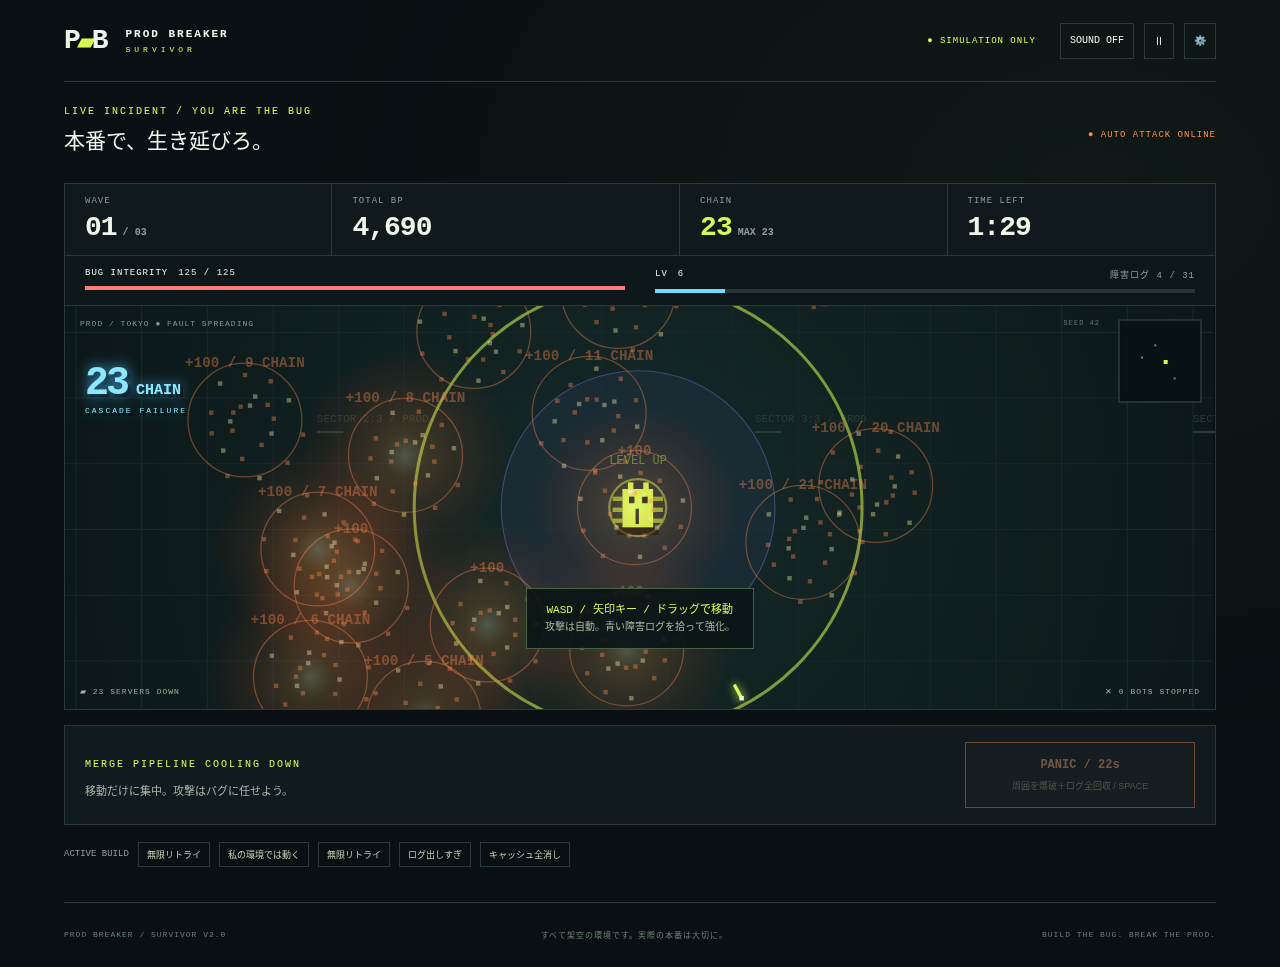
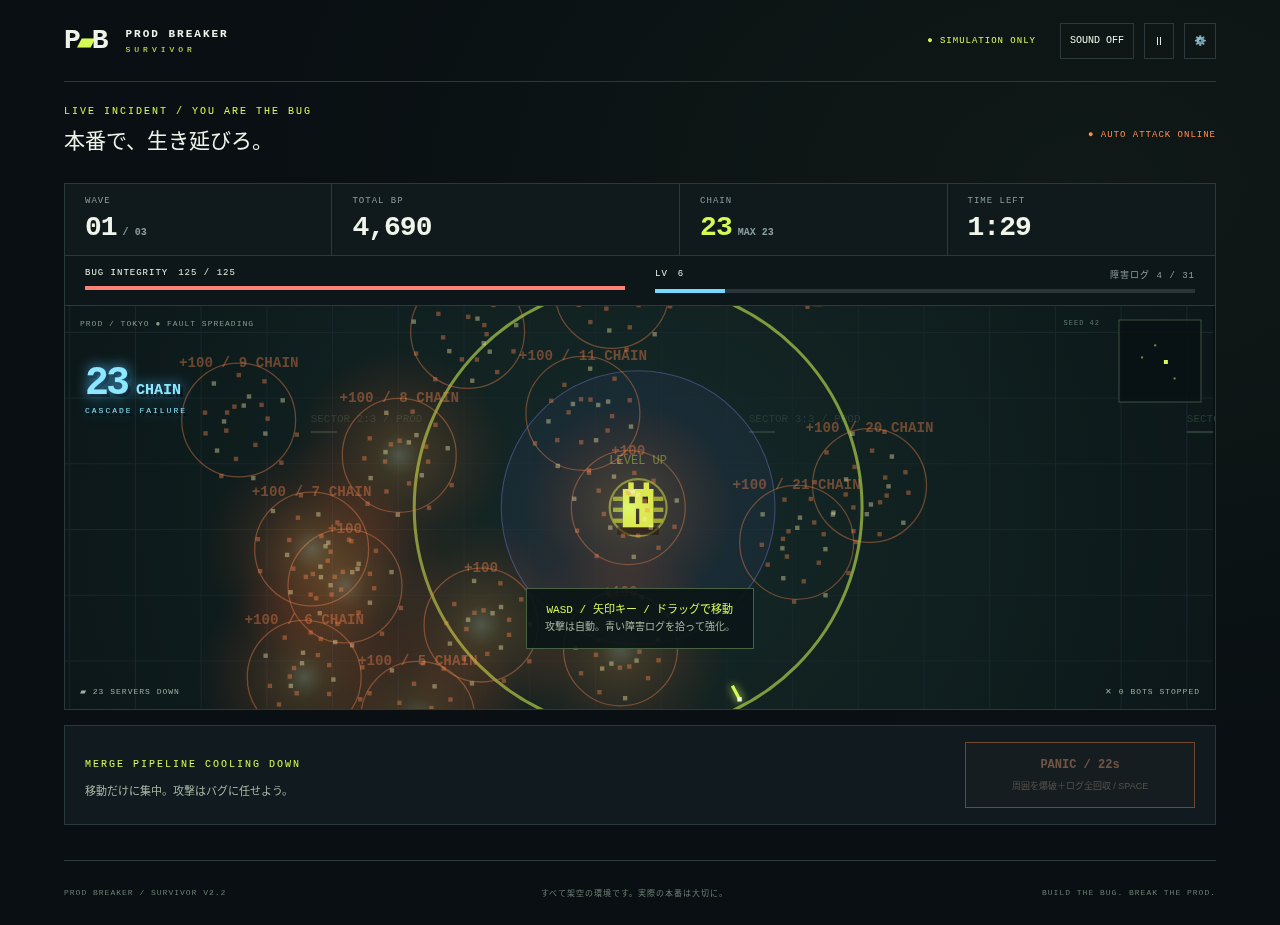
Remove result sharing and prevent mobile long-press selection

diff --git a/src/components/Game.tsx b/src/components/Game.tsx
@@ -42,7 +42,6 @@ export default function Game() {
       reduced: false,
     }),
     [high, setHigh] = useState(0),
-    [notice, setNotice] = useState(""),
     [evolutionNotice, setEvolutionNotice] = useState("");
   useEffect(() => {
     if (!evolutionNotice) return;
@@ -270,7 +269,6 @@ export default function Game() {
         : Math.floor(Math.random() * 0xffffffff);
     world.current = createWorld(seed, duration);
     setSnapshot(world.current);
-    setNotice("");
     setEvolutionNotice("");
     setModal(null);
     setScreen("run");
@@ -303,57 +301,19 @@ export default function Game() {
     remaining = Math.ceil(w.duration - w.time),
     minutes = Math.floor(remaining / 60),
     seconds = String(remaining % 60).padStart(2, "0");
-  async function exportImage(share = false) {
-    try {
-      const c = document.createElement("canvas");
-      c.width = 1080;
-      c.height = 1080;
-      const ctx = c.getContext("2d");
-      if (!ctx) throw new Error("canvas");
-      ctx.fillStyle = "#0a1013";
-      ctx.fillRect(0, 0, 1080, 1080);
-      ctx.fillStyle = "#d4fa53";
-      ctx.font = "bold 80px monospace";
-      ctx.fillText("PROD BREAKER", 65, 140);
-      ctx.font = "26px monospace";
-      ctx.fillText("SURVIVOR / BUILD THE BUG.", 65, 195);
-      ctx.fillStyle = "#fff";
-      ctx.font = "bold 110px monospace";
-      ctx.fillText(`${w.score.toLocaleString()} BP`, 65, 360);
-      ctx.font = "34px sans-serif";
-      [
-        incident.title,
-        `${w.time.toFixed(1)}秒 / LV ${w.level} / ${w.destroyed}サーバー破壊`,
-        `MAX CHAIN ${w.maxCombo} / WAVE ${wave(w)}`,
-        `原因：${incident.cause}`,
-        "再発防止策：金曜日を廃止する。",
-        "架空のジョーク障害報告書です。",
-      ].forEach((s, i) => ctx.fillText(s, 65, 475 + i * 75));
-      const blob = await new Promise<Blob | null>((resolve) =>
-        c.toBlob(resolve),
-      );
-      if (!blob) throw new Error("blob");
-      const file = new File([blob], "prod-breaker-survivor.png", {
-        type: "image/png",
-      });
-      if (share && navigator.canShare?.({ files: [file] })) {
-        await navigator.share({ files: [file], title: "PROD BREAKER" });
-        return;
-      }
-      const link = document.createElement("a");
-      link.href = URL.createObjectURL(blob);
-      link.download = file.name;
-      link.click();
-      setTimeout(() => URL.revokeObjectURL(link.href), 1000);
-      setNotice("リザルト画像を保存しました。");
-    } catch (e) {
-      if (!(e instanceof DOMException && e.name === "AbortError"))
-        setNotice("画像を保存できませんでした。別のブラウザでお試しください。");
-    }
-  }
   return (
     <MotionConfig reducedMotion={settings.reduced ? "always" : "user"}>
-      <main className={`app survivor ${settings.reduced ? "reduced" : ""}`}>
+      <main
+        className={`app survivor ${settings.reduced ? "reduced" : ""}`}
+        onContextMenu={(event) => {
+          const target = event.target as HTMLElement;
+          if (
+            (screen === "run" || target.closest(".site-header")) &&
+            !target.closest("input, textarea")
+          )
+            event.preventDefault();
+        }}
+      >
         <header className="site-header">
           <button
             className="brand"
@@ -413,7 +373,7 @@ export default function Game() {
               </span>
             </h1>
             <div className="edition">
-              SURVIVOR EDITION <span>↗ V2.1</span>
+              SURVIVOR EDITION <span>↗ V2.2</span>
             </div>
             <p className="tagline">BUILD THE BUG. BREAK THE PROD.</p>
             <p className="intro">
@@ -637,23 +597,6 @@ export default function Game() {
                 <small>周囲を爆破＋ログ全回収 / SPACE</small>
               </button>
             </div>
-            <div className="inventory">
-              {w.evolutions.map((name) => (
-                <span className="build-chip evolution" key={name}>
-                  ✦ {name}
-                </span>
-              ))}
-              <span>ACTIVE BUILD</span>
-              {w.build.length ? (
-                w.build.map((id, i) => (
-                  <span className="build-chip" key={i}>
-                    {upgrades.find((u) => u.id === id)!.name}
-                  </span>
-                ))
-              ) : (
-                <span>まだ素のバグです。青いログを回収しよう。</span>
-              )}
-            </div>
             {w.phase === "upgrade" && !modal && (
               <div className="modal-backdrop level-backdrop">
                 <section
@@ -755,18 +698,11 @@ export default function Game() {
             <button className="primary" onClick={start}>
               もう一度プレイ ↻
             </button>
-            <div className="result-actions">
-              <button onClick={() => void exportImage()}>画像保存 ↓</button>
-              <button onClick={() => void exportImage(true)}>共有 ↗</button>
-            </div>
             <p className="muted">SURVIVOR BEST {high.toLocaleString()} BP</p>
-            <p role="status" className="muted">
-              {notice}
-            </p>
           </section>
         )}
         <footer>
-          <span>PROD BREAKER / SURVIVOR V2.1</span>
+          <span>PROD BREAKER / SURVIVOR V2.2</span>
           <span>すべて架空の環境です。実際の本番は大切に。</span>
           <span>BUILD THE BUG. BREAK THE PROD.</span>
         </footer>

diff --git a/tests/e2e/game.spec.ts b/tests/e2e/game.spec.ts
@@ -122,11 +122,10 @@ test("real-time movement, auto fire, upgrades, panic, pause, saved settings and 
       Number(JSON.parse(localStorage.getItem("pb-survivor-high-90") || "0")),
     ),
   ).toBeGreaterThan(0);
-  const download = page.waitForEvent("download");
-  await page.getByRole("button", { name: "画像保存 ↓" }).click();
-  expect((await download).suggestedFilename()).toBe(
-    "prod-breaker-survivor.png",
+  await expect(page.getByRole("button", { name: /画像保存|共有/ })).toHaveCount(
+    0,
   );
+  await expect(page.locator(".inventory")).toHaveCount(0);
   await page.screenshot({
     path: `test-results/${info.project.name}-result-v2.png`,
     fullPage: true,
@@ -200,6 +199,45 @@ test("actual touch input and hidden-tab pause", async ({
   await page.getByRole("button", { name: /QUICK/ }).click();
   await page.getByRole("button", { name: /GAME START/ }).click();
   await page.clock.runFor(100);
+  const topButton = page.getByRole("button", { name: "ミュート切替" });
+  expect(
+    await topButton.evaluate((el) => getComputedStyle(el).userSelect),
+  ).toBe("none");
+  expect(
+    await topButton.evaluate((el) =>
+      el.dispatchEvent(
+        new MouseEvent("contextmenu", { bubbles: true, cancelable: true }),
+      ),
+    ),
+  ).toBe(false);
+  expect(
+    await page
+      .locator("canvas")
+      .evaluate((el) =>
+        el.dispatchEvent(
+          new MouseEvent("contextmenu", { bubbles: true, cancelable: true }),
+        ),
+      ),
+  ).toBe(false);
+  const buttonBox = (await topButton.boundingBox())!;
+  const touch = await context.newCDPSession(page);
+  const point = {
+    x: buttonBox.x + buttonBox.width / 2,
+    y: buttonBox.y + buttonBox.height / 2,
+    id: 3,
+  };
+  await touch.send("Input.dispatchTouchEvent", {
+    type: "touchStart",
+    touchPoints: [point],
+  });
+  await page.clock.runFor(900);
+  await touch.send("Input.dispatchTouchEvent", {
+    type: "touchEnd",
+    touchPoints: [],
+  });
+  await page.clock.runFor(100);
+  expect(await page.evaluate(() => String(window.getSelection()))).toBe("");
+  await expect(topButton).toContainText("SOUND ON");
   const initial = Number(
     await page.getByTestId("arena").getAttribute("data-player-x"),
   );
@@ -244,6 +282,8 @@ test("actual touch input and hidden-tab pause", async ({
     document.dispatchEvent(new Event("visibilitychange"));
   });
   await page.getByRole("button", { name: "ゲームに戻る →" }).click();
+  await page.clock.runFor(200);
+  await choose(page);
   await page.clock.runFor(200);
   expect(
     Number(await page.getByTestId("arena").getAttribute("data-time")),

diff --git a/src/app/globals.css b/src/app/globals.css
@@ -550,20 +550,7 @@ button:disabled {
   margin-top: 7px;
   color: #b99b88;
 }
-.inventory {
-  font: 9px monospace;
-  color: var(--muted);
-  margin-top: 17px;
-  display: flex;
-  align-items: center;
-  gap: 9px;
-  flex-wrap: wrap;
-}
-.build-chip {
-  border: 1px solid var(--line);
-  padding: 5px 8px;
-  color: #bfd0b2;
-}
+
 .result {
   max-width: 720px;
   margin: 50px auto;
@@ -622,12 +609,7 @@ button:disabled {
   font-size: 10px;
   color: var(--muted);
 }
-.result-actions {
-  display: flex;
-  justify-content: center;
-  gap: 15px;
-  margin: 15px;
-}
+
 .muted {
   font-size: 12px;
   line-height: 1.9;
@@ -1017,14 +999,7 @@ footer {
   .panic small {
     font-size: 7px;
   }
-  .inventory {
-    font-size: 7px;
-    gap: 6px;
-    margin-top: 12px;
-  }
-  .build-chip {
-    padding: 4px 6px;
-  }
+
   .result {
     margin: 35px auto;
   }
@@ -1157,7 +1132,11 @@ footer {
 }
 
 /* Avoid the mobile text-selection and callout menus during play. */
-.survivor .game {
+.survivor .game,
+.survivor .site-header,
+.survivor button,
+.survivor button *,
+.survivor [role="dialog"] {
   -webkit-user-select: none;
   user-select: none;
   -webkit-touch-callout: none;
@@ -1193,10 +1172,7 @@ footer {
   color: var(--lime);
   background: #d4fa5312;
 }
-.evolution {
-  color: #ffbc70;
-  border-color: #ff8b50;
-}
+
 .chain-badge.major {
   color: #8de7ff;
   text-shadow:
@@ -1320,18 +1296,6 @@ footer {
     min-height: 48px;
     padding: 8px;
   }
-  .survivor .inventory {
-    flex: none;
-    min-height: 24px;
-    margin-top: 6px;
-    flex-wrap: nowrap;
-    overflow-x: auto;
-    overflow-y: hidden;
-    white-space: nowrap;
-  }
-  .survivor .build-chip {
-    flex: none;
-  }
 }
 
 @media (hover: none) and (pointer: coarse) and (orientation: landscape) and (max-height: 500px) {
@@ -1357,9 +1321,5 @@ footer {
   .survivor .run-controls {
     margin-top: 4px;
     padding: 4px 8px;
-  }
-  .survivor .inventory {
-    min-height: 20px;
-    margin-top: 3px;
   }
 }

diff --git a/README.md b/README.md
@@ -21,7 +21,7 @@
 - **PANIC:** 画面下のボタン / Spaceで「緊急マージ」。周囲を爆破し、落ちているログを回収。22秒のクールダウン後に再使用できます。
 - **生存:** WAFドローンや復旧BOTを避けて選択した時間の生存を目指します。30秒ごとにウェーブが進み、大型SRE COREが登場。
 - **一時停止:** Ⅱ / Esc。非表示タブ・ウィンドウのフォーカス喪失時も自動停止。再開ボタンで戻ります。
-- **結果:** 生存時間、BP、最大連鎖、破壊台数、称号、ジョーク障害報告書。PNG保存・対応ブラウザで共有・1タップ再挑戦。
+- **結果:** 生存時間、BP、最大連鎖、破壊台数、称号、ジョーク障害報告書。1タップ再挑戦。
 
 選択した時間はゲーム内の進行時間です。レベルアップ選択・一時停止の時間は含めません。HPがなくなると選択時間より早く終了します。
 
@@ -55,7 +55,7 @@
 - オンコール当番＋ロールバック失敗 → **真夜中の復旧会議**：全回復・最大HP・連鎖強化
 - 仕様です＋私の環境では動く → **動くから仕様**：全回復・最大HP・持続ダメージ増加
 
-スマホのプレイ画面は縦スクロールせず、強化一覧は横にスクロールできます。ホーム画面では90秒、3分、5分を選択できます。ハイスコアはモード別です。
+スマホのプレイ画面は縦スクロールせず、長押しによる選択メニューを抑制します。ホーム画面では90秒、3分、5分を選択できます。ハイスコアはモード別です。
 
 ## 設定
 
